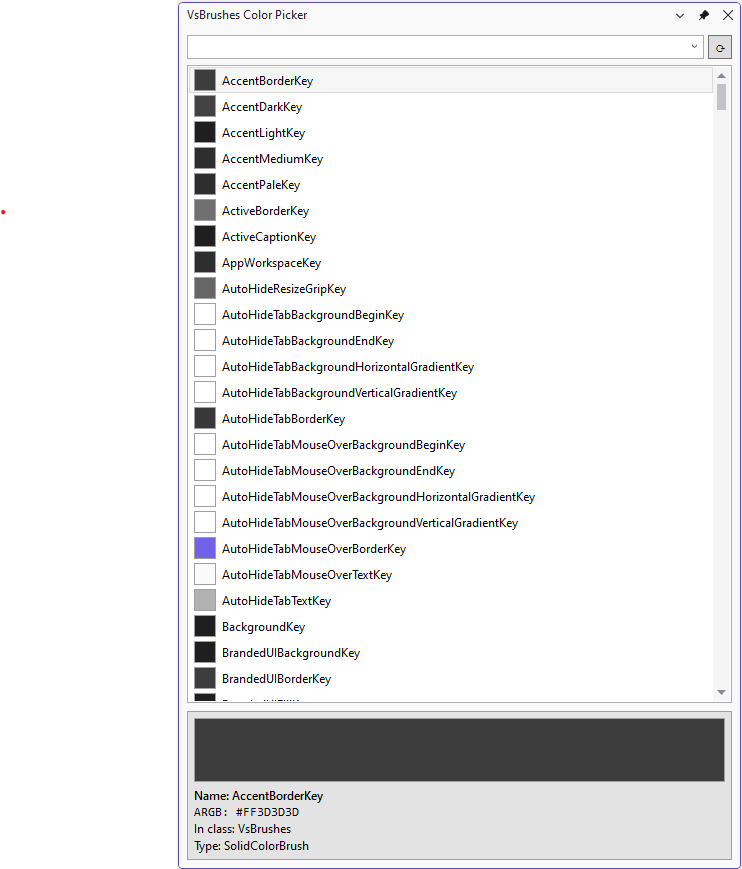
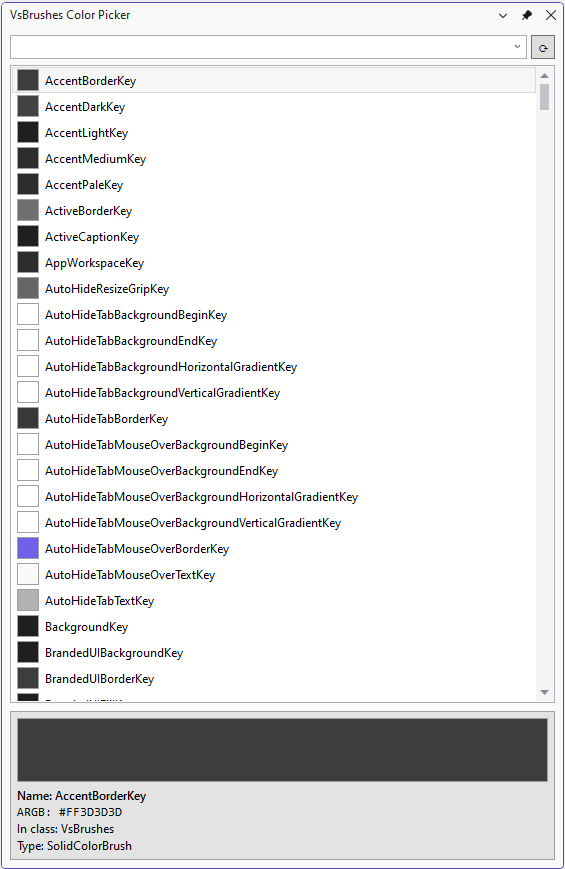
Had to bump version yet again

Changed region(s): [[0.0, 0.0, 0.7221, 1.0], [0.9027, 0.0, 1.0, 1.0]]

diff --git a/ToolWindow/source.extension.cs b/ToolWindow/source.extension.cs
@@ -12,7 +12,7 @@ namespace VsBrushesColorPicker
         public const string Name = "VsBrushes Color Picker";
         public const string Description = @"Browse and explore all VsBrushes colors in Visual Studio. Features include live preview with color swatches, search and filter, auto-refresh on theme changes, and detailed color information. Perfect for Visual Studio extension developers who need to find the right theme colors for their UI.";
         public const string Language = "en-US";
-        public const string Version = "1.1";
+        public const string Version = "1.2";
         public const string Author = "Stephane Etienne";
         public const string Tags = "";
         public const bool IsPreview = false;
